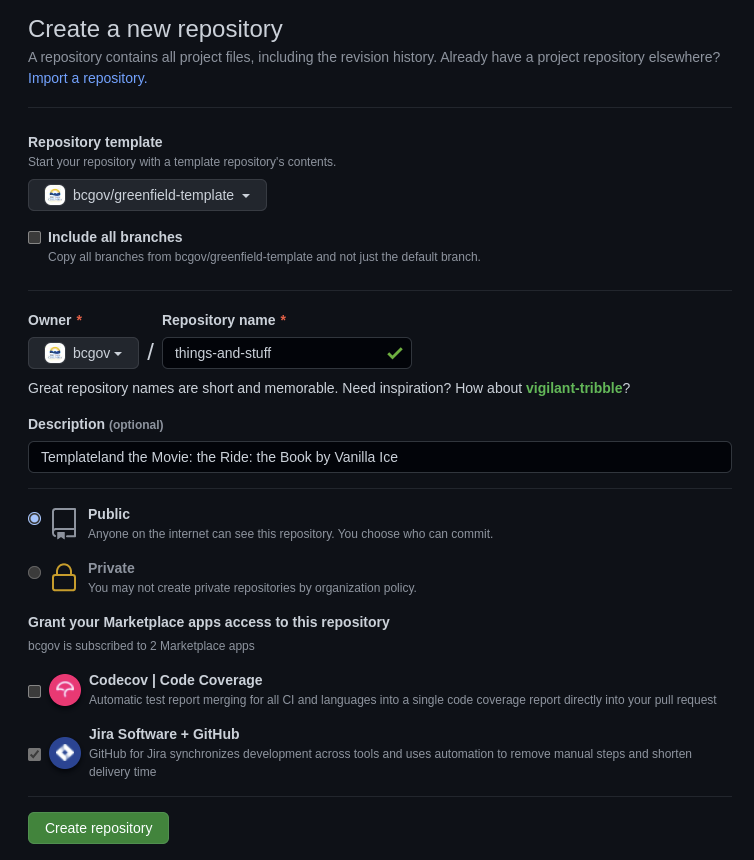
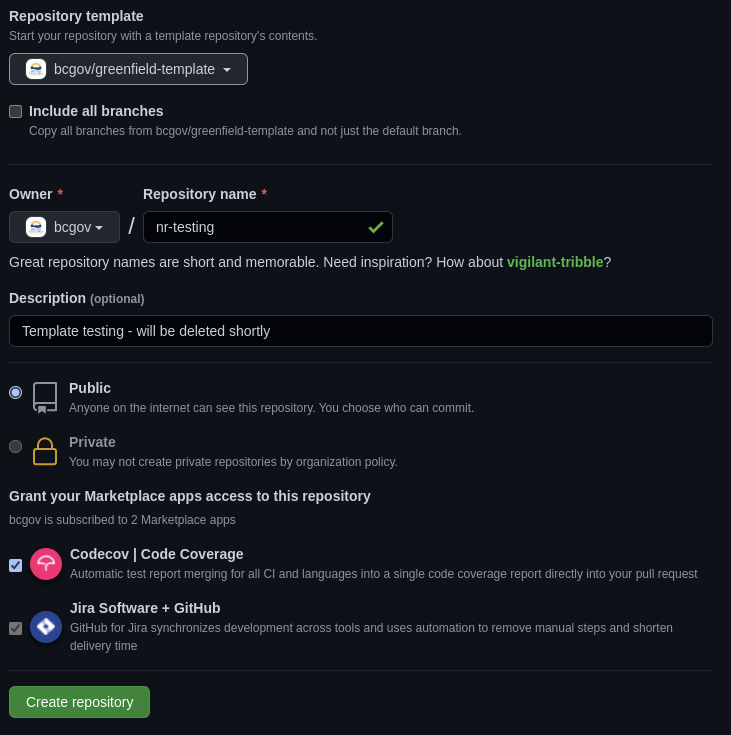
Consuming This Template

Changed region(s): [[0.0, 0.0, 0.9631, 0.9878], [0.4815, 0.1497, 0.5718, 0.1796], [0.5116, 0.3891, 0.5417, 0.419]]

diff --git a/README.md b/README.md
@@ -82,13 +82,14 @@ The following are required:
     - Amazon Web Services coming soon
 
 
-## Create a Repository
+## Consuming This Template
 
-The following steps show how to create a new repository and application using this repo as a template.
+![image](./.github/graphics/newRepo.png)
 
-- Create a new repository using the Greenfield template and grant access the Codecov marketplace application:
-
-    ![image](https://user-images.githubusercontent.com/77364706/155819028-0096d3ae-d08a-44f4-b0d4-203029b46449.png)
+Create a new repository using this repository as a template.
+- Select bcgov/greenfield-template under Repository template
+- Check Codecov | Code Coverage to grant access
+- Jira cannot be unchecked (I try every time!)
 
   
 - Add a new environment variable “dev” to the repository through Settings -> Environments, with the following secrets:  
